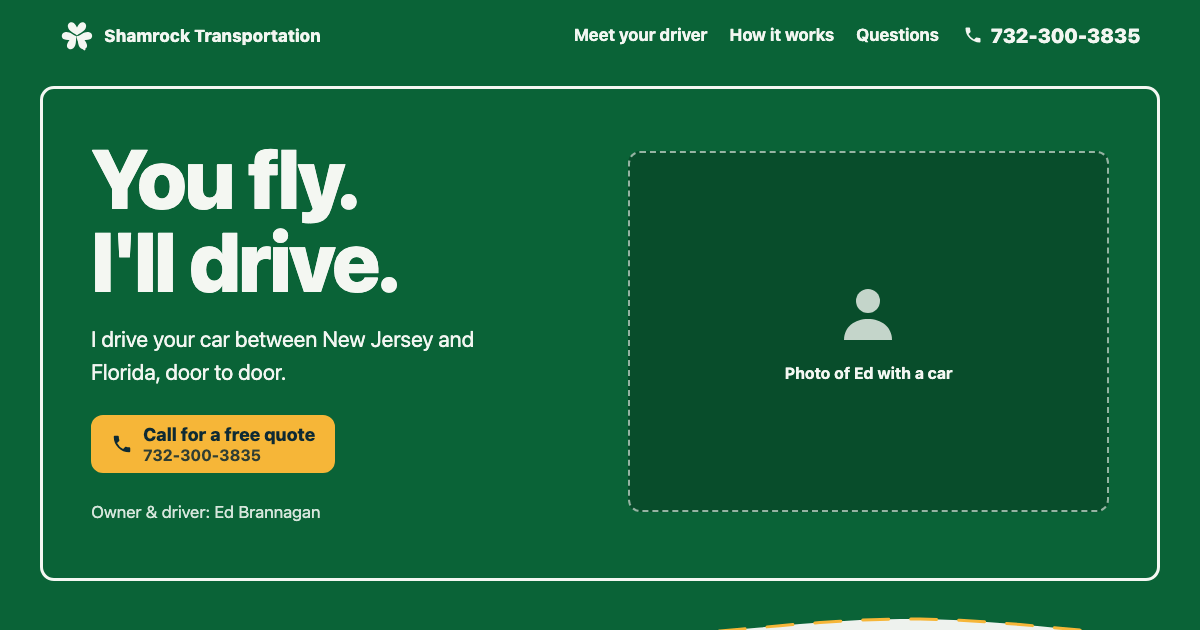
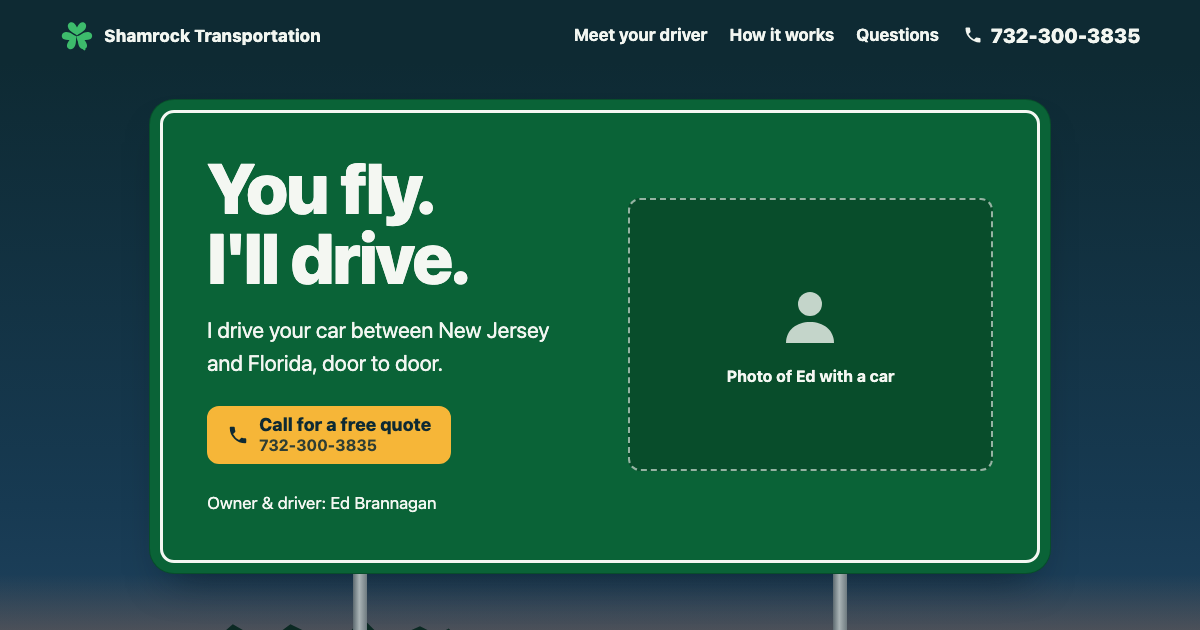
Hero: the guide sign stands on posts in a roadside scene at dusk
Claude-Session: https://claude.ai/code/session_01BJFLxWBzKxTPZcsxj4Hb51

diff --git a/index.html b/index.html
@@ -5,7 +5,7 @@
 <meta name="viewport" content="width=device-width, initial-scale=1, viewport-fit=cover">
 <title>Shamrock Transportation · You fly, I'll drive</title>
 <meta name="description" content="Ed Brannagan drives your car between New Jersey and Florida, door to door, so you can fly and still have your own car down there. Call 732-300-3835.">
-<meta name="theme-color" content="#0a6337">
+<meta name="theme-color" content="#0e2a33">
 <meta property="og:type" content="website">
 <meta property="og:title" content="Shamrock Transportation · You fly, I'll drive">
 <meta property="og:description" content="I drive your own car between New Jersey and Florida, door to door. Call Ed: 732-300-3835.">
@@ -51,9 +51,9 @@ p{margin:0}
 .ed :focus-visible,.bar :focus-visible,.hero :focus-visible{outline-color:#f4f7f2}
 
 /* ---------- Top bar ---------- */
-.bar{display:flex;align-items:center;gap:24px;padding:14px 20px 4px;max-width:1120px;margin:0 auto;background:var(--sign);box-shadow:0 0 0 100vmax var(--sign);clip-path:inset(0 -100vmax)}
+.bar{display:flex;align-items:center;gap:24px;padding:14px 20px 4px;max-width:1120px;margin:0 auto}
 .brand{display:flex;align-items:center;gap:10px;text-decoration:none;margin-right:auto;border-radius:8px}
-.brand svg{width:34px;height:34px;flex:none;color:#f4f7f2}
+.brand svg{width:34px;height:34px;flex:none;color:var(--leaf)}
 .nav{gap:22px}
 .nav a,.bar-phone{color:var(--on-dark);text-decoration:none;font-weight:700;font-size:17px;min-height:44px;display:inline-flex;align-items:center;border-bottom:2px solid transparent}
 .bar-phone{gap:8px;font-weight:850;font-size:20px}
@@ -63,9 +63,17 @@ p{margin:0}
 .bar b{font-size:17px;font-weight:800;letter-spacing:.01em;line-height:1.1}
 
 /* ---------- Hero ---------- */
-/* The hero is an I-95 guide sign: shamrock green with a white inset border */
-.hero{position:relative;padding-top:18px;background:var(--sign)}
-.hero-copy{display:grid;gap:20px;width:auto;margin:0 10px;padding:26px 20px 32px;border:3px solid #f4f7f2;border-radius:16px}
+/* The hero is a roadside scene: an I-95 guide sign on two posts, seen down the road at dusk.
+   The sign is green with a green rim outside its white border, like a real guide sign. */
+.hero{position:relative;padding-top:30px;background:linear-gradient(#0e2a33 0%,#173a52 55%,#2c4d6e 100%)}
+.hero-copy{position:relative;z-index:1;display:grid;gap:20px;width:auto;margin:0 34px;padding:24px 18px 28px;background:var(--sign);border:3px solid #f4f7f2;border-radius:16px;box-shadow:0 0 0 10px var(--sign),0 0 0 11px var(--sign-deep),0 22px 40px -10px rgba(5,15,25,.6)}
+/* Posts, treeline and a warm horizon glow behind them */
+.posts{position:relative;height:64px;margin-top:11px;background:linear-gradient(rgba(240,138,80,0) 0%,rgba(240,138,80,.28) 75%,rgba(246,182,56,.42) 100%)}
+.posts .trees{position:absolute;left:0;right:0;bottom:0;width:100%;height:34px}
+.posts i{position:absolute;top:0;bottom:0;width:10px;margin-left:-5px;background:linear-gradient(90deg,#5d6a70,#aab4b6 45%,#6f7b80);z-index:1}
+.posts i:first-of-type{left:30%}.posts i:last-of-type{left:70%}
+.ground{display:block;width:100%;height:150px}
+.hero .seam{margin-top:-44px}
 .hero-copy > *{max-width:680px}
 .hero h1{font-size:clamp(3rem,14vw,5.2rem);color:#f4f7f2;letter-spacing:-.02em;line-height:1}
 .hero h1 span{display:block}
@@ -98,7 +106,6 @@ p{margin:0}
 
 /* ---------- Seams: a lane line along the top of the next section ---------- */
 .seam{position:relative;z-index:1;pointer-events:none;display:block;width:100%;height:44px;margin-bottom:-1px}
-.hero .seam{margin-top:18px}
 .seam path.fill{fill:var(--next)}
 .seam path.lane{fill:none;stroke:var(--lane);stroke-width:3;stroke-dasharray:26 22;stroke-linecap:round}
 
@@ -174,8 +181,14 @@ footer a{color:var(--on-dark);text-decoration-thickness:2px;text-underline-offse
 
 /* ---------- Wider screens ---------- */
 @media (min-width:760px){
-  .hero{padding-top:24px}
-  .hero-copy{margin:0 auto;max-width:1120px;padding:48px 48px 52px}
+  .hero{padding-top:48px}
+  .hero-copy{margin:0 auto;max-width:880px;padding:40px 44px 44px}
+  .hero h1{font-size:clamp(3rem,6vw,4.4rem)}
+  .posts{height:96px;margin-top:11px}
+  .posts .trees{height:52px}
+  .posts i{width:14px;margin-left:-7px}
+  .ground{height:200px}
+  .hero .seam{margin-top:-64px}
   .hero-act{justify-items:start}
   .ctas{align-self:start;grid-template-columns:auto auto;justify-content:start}
   .nav{display:flex}.bar-phone{display:inline-flex}
@@ -256,6 +269,17 @@ FINISH: unreviewed and undocumented is unfinished; this build ends with the fini
       <figcaption>Photo of Ed with a car</figcaption>
     </figure>
   </div>
+  <div class="posts" aria-hidden="true">
+    <svg class="trees" viewBox="0 0 1000 50" preserveAspectRatio="none"><path fill="#0c2a24" d="M0 50V30l18-6 14 4 10-14 12 10 20-8 16 12 14-16 10 4 16 6 20-10 12 12 18-4 14-14 12 8 22 4 14-12 18 10 16-4 12 6 14-18 12 14 20 2 16-8 14 8 10-6 6 8 22 18V50zM676 50l24-14 10-6 20-6 14 6 12-14 16 10 18-6 14 12 20-16 12 8 14 2 18-10 14 12 16-4 12-12 14 10 22 2 12-8 16 10 18-6 14 4 10-8 14 10V50z"/></svg>
+    <i></i><i></i>
+  </div>
+  <svg class="ground" viewBox="0 0 1000 150" preserveAspectRatio="none" aria-hidden="true">
+    <rect width="1000" height="150" fill="#173f2c"/>
+    <polygon points="300,0 700,0 1180,150 -180,150" fill="#2c3539"/>
+    <polygon points="303,0 309,0 -150,150 -172,150" fill="#e8ece6"/>
+    <polygon points="691,0 697,0 1172,150 1150,150" fill="#e8ece6"/>
+    <g fill="#f6b638"><polygon points="499,4 501,4 501.6,12 498.4,12"/><polygon points="497.8,24 502.2,24 503,40 497,40"/><polygon points="496,58 504,58 505.5,84 494.5,84"/><polygon points="493,106 507,106 509,150 491,150"/></g>
+  </svg>
   <svg class="seam" viewBox="0 0 1200 64" preserveAspectRatio="none" style="--next:var(--paper);--lane:var(--amber)" aria-hidden="true"><path class="fill"/><path class="lane"/></svg>
 </section>
 

diff --git a/HANDOFF.md b/HANDOFF.md
@@ -3,7 +3,8 @@
 **Live:** https://10elizabethbell.github.io/shamrockOwnerTrust/ · **Repo:** https://github.com/10elizabethbell/shamrockOwnerTrust · **Built:** 2026-10-14 from Muse brief of 2026-10-13 (Vibe 2, owner-operator trust, approved by Ellie 2026-10-14)
 
 ## What's built
-- **The look: I-95 signs and night road.** The header and hero are one big green guide sign (shamrock green `#0a6337`, white inset border, white clover); "Meet your driver" is a blue I-95 services sign (`#17508f`); the rest of the page is blue-green night (`#0e2a33`, not black) and pale aluminum. Amber only for Call buttons and the road's centre line. Headline **"You fly. I'll drive."**, taken from the domain on Ed's card (youflyilldrive.com).
+- **The look: a roadside scene on I-95 at dusk.** The hero is a green guide sign (shamrock green `#0a6337`, a green rim outside its white border) standing on two steel posts, seen down the road: dusk sky (night blue fading to twilight), a warm glow on the horizon, a treeline, and the road running toward the sign with white edge lines and an amber centre line. All of it is still; nothing moves. "Meet your driver" is a blue I-95 services sign (`#17508f`). The rest of the page is pale aluminum and blue-green night (`#0e2a33`, not black). Amber only for Call buttons and road centre lines.
+- **Roadside sign hero (Ellie, 2026-10-15):** "make it look like it's actually a road sign on a road", with scenery outside the sign and the sign farther away. Scene parts: `.posts` (treeline, glow, posts at 30%/70% where the road edges meet the horizon) and `svg.ground` (grass, road). Sign size: `.hero-copy` margin/max-width.
 - **More color (Ellie, 2026-10-15: "I hate the lack of color"):** the hero went from night blue to the green sign, and the driver sign went blue so the two signs don't repeat. Easy to revert: `--sign`/`--svc` tokens and the `.bar`, `.hero`, `.ed .sign` rules.
 - **Quiet hero (Ellie, 2026-10-14):** headline, one line ("I drive your car between New Jersey and Florida, door to door."), one big "Call for a free quote / 732-300-3835" button, an "or send a text" link, and "Owner & driver: Ed Brannagan". No sign panel and no motion in the hero.
 - **The one moving part:** a short road strip just above the closing call. A packed cream car drives steadily south past "Welcome to Delaware … Florida" signs, house to house, pauses, then drives back north. Nothing else moves and nothing needs touching. Speed and spacing (`CRUISE`, `SEG`, `TREE_GAP`) are at the top of the road script.
